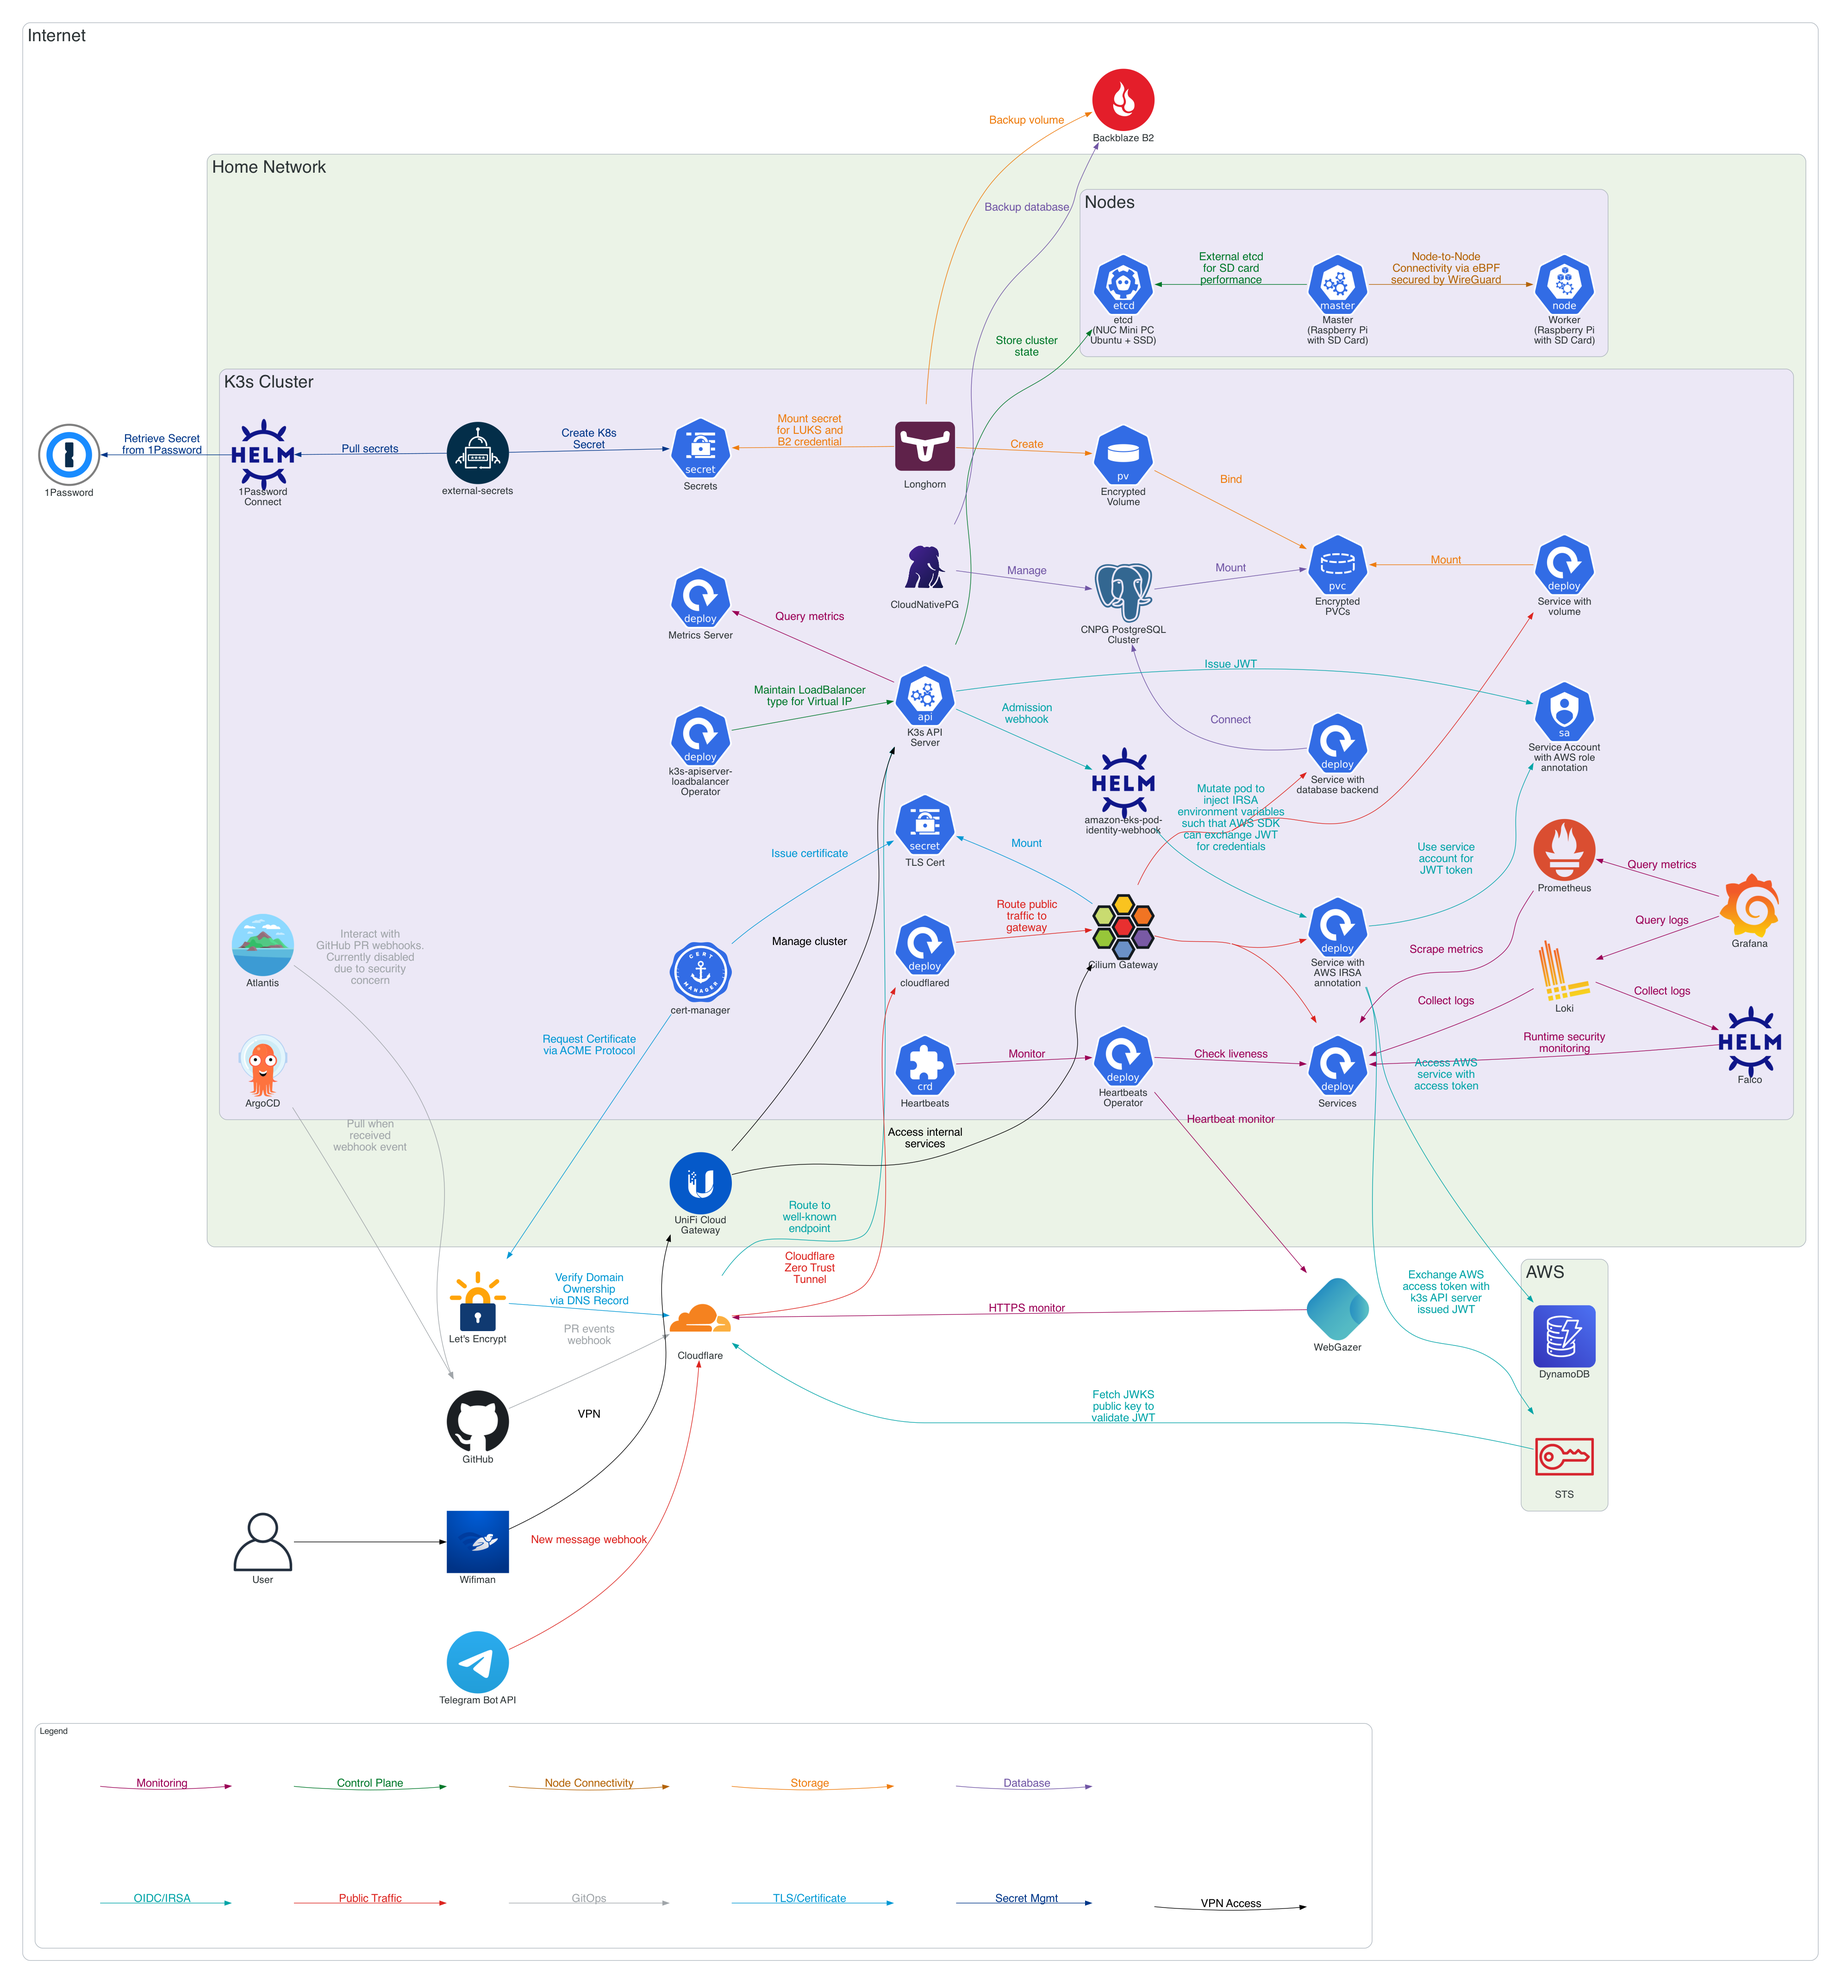
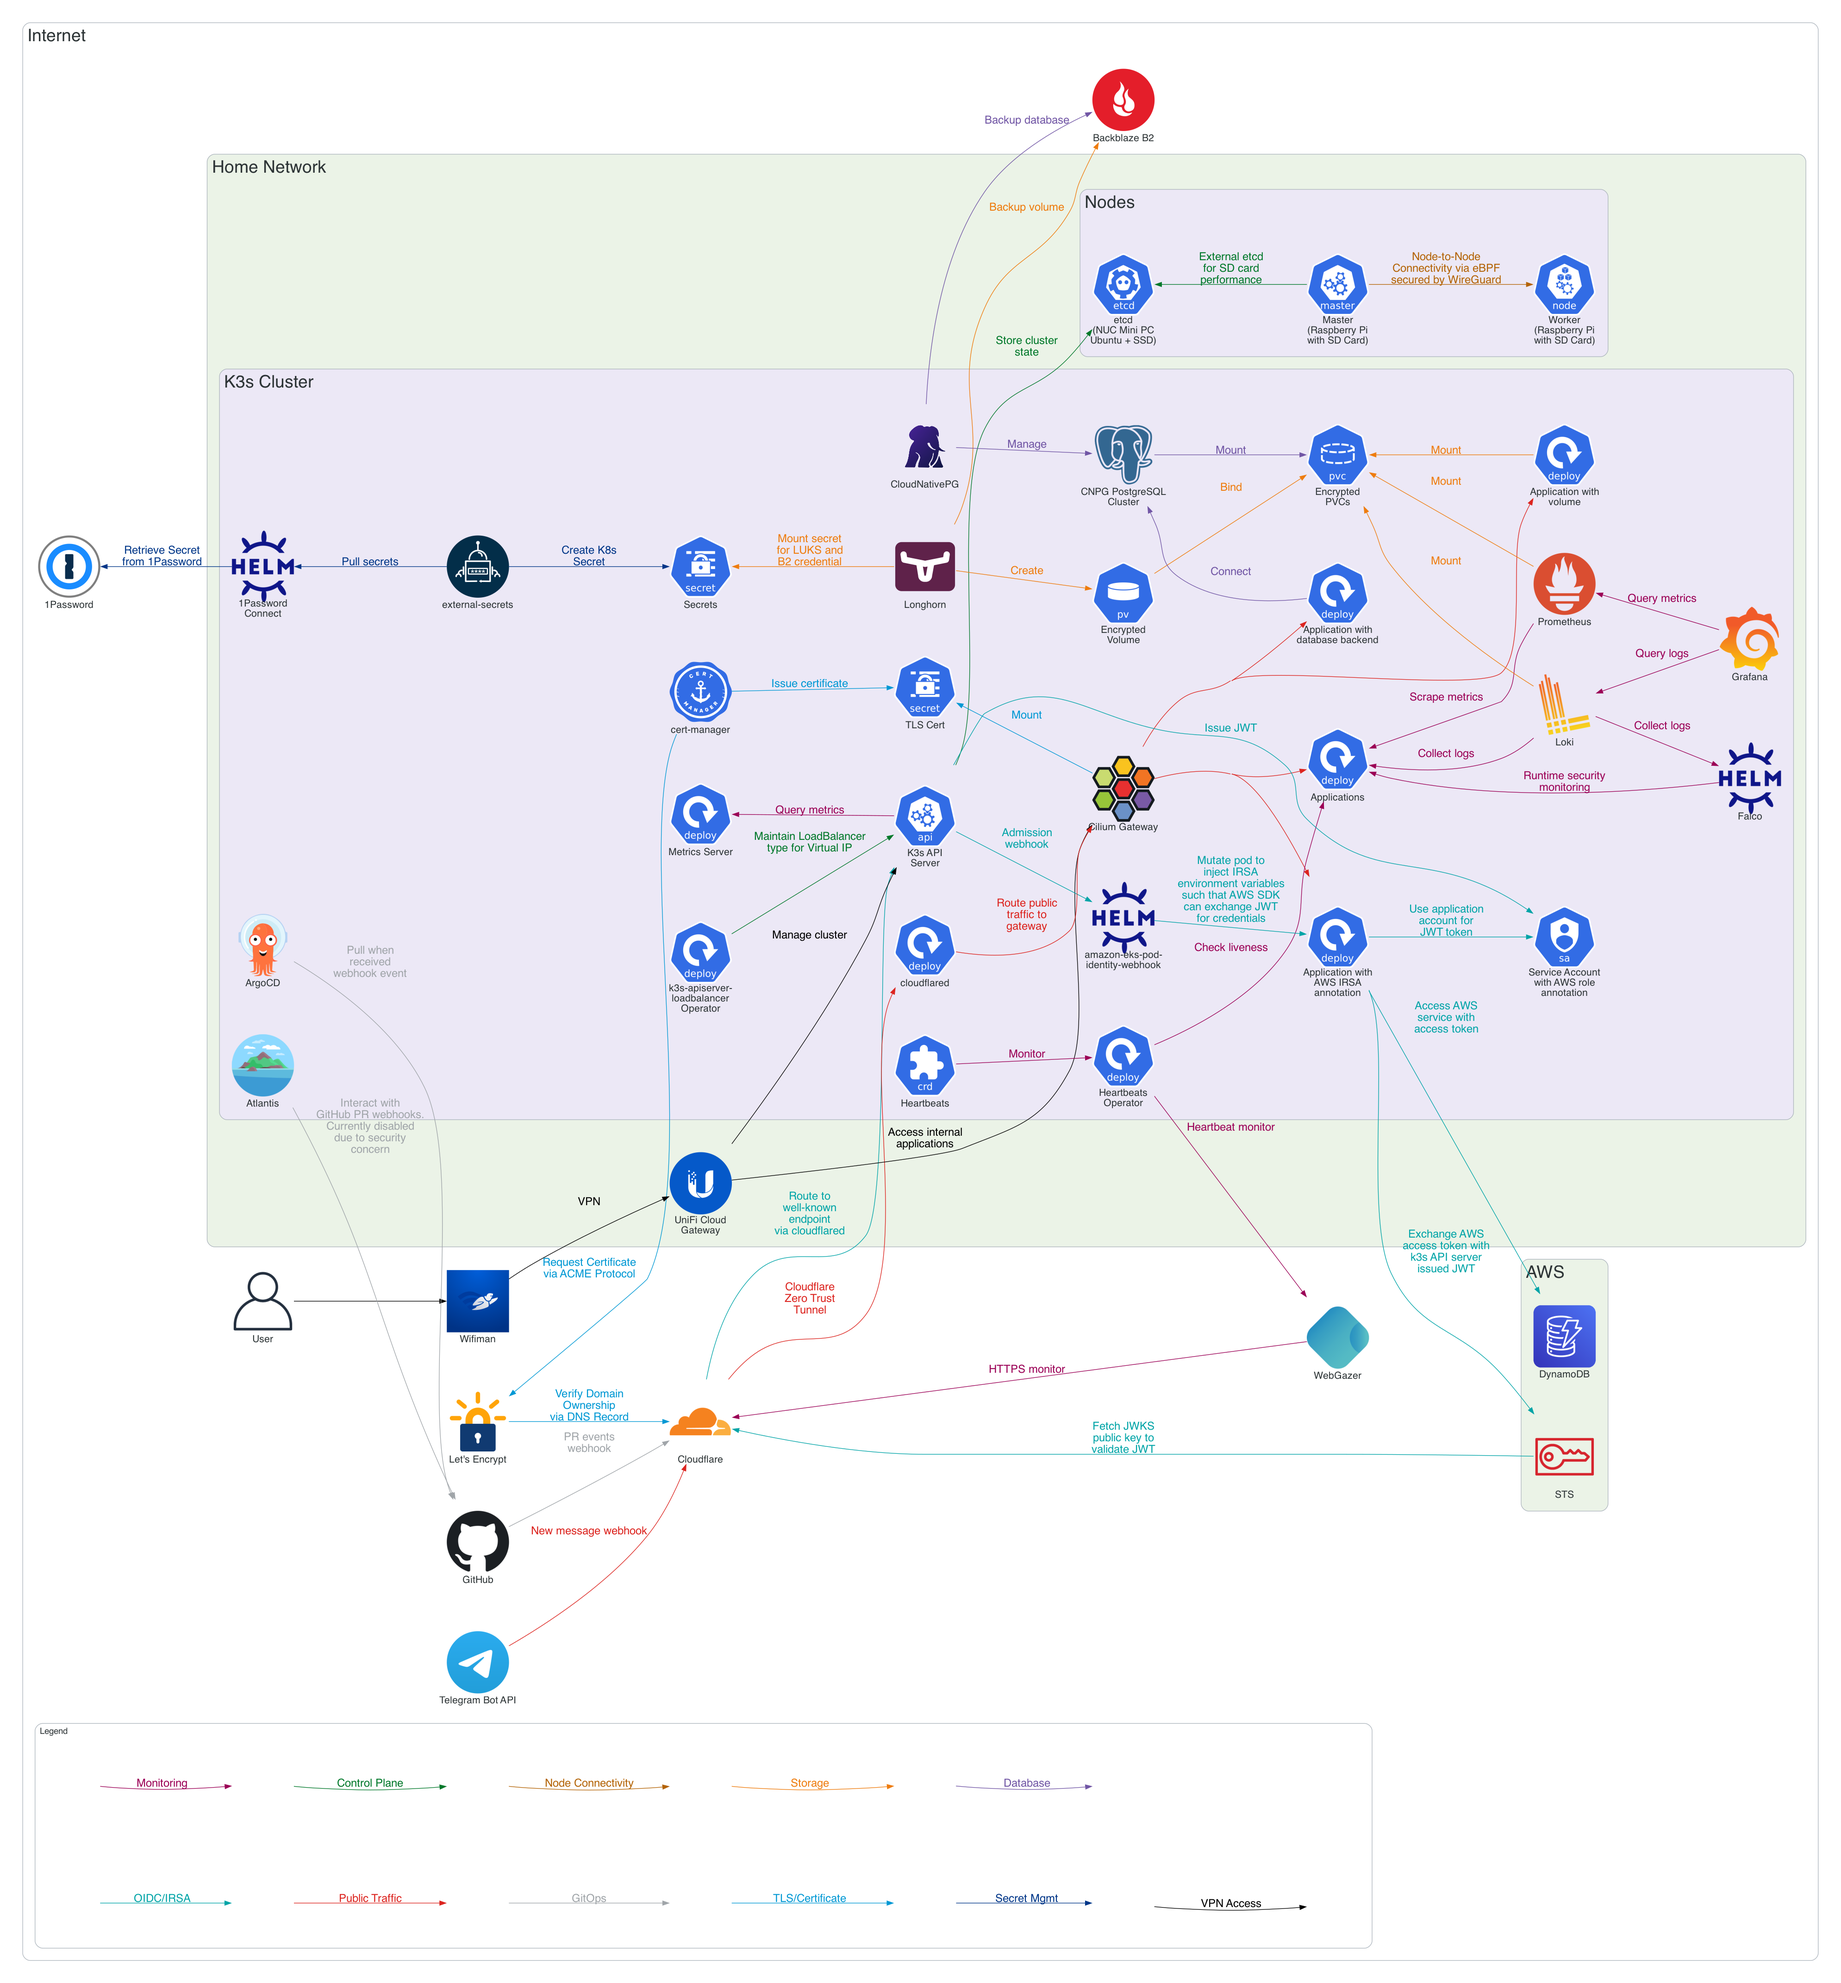
Update architecture diagram (#1922)

diff --git a/diagrams/otaru-architecture.py b/diagrams/otaru-architecture.py
@@ -164,10 +164,10 @@ with Diagram(
                 cloudflared = Deployment("cloudflared")
                 cilium = icon_node("Cilium Gateway", "cilium")
 
-                # Core services
+                # Core applications
                 argocd = Argocd("ArgoCD")
                 atlantis = icon_node("Atlantis", "atlantis")
-                services = Deployment("Services")
+                applications = Deployment("Applications")
                 cert_manager = icon_node("cert-manager", "cert-manager")
                 tls_cert = Secret("TLS Cert")
 
@@ -191,19 +191,21 @@ with Diagram(
                 longhorn = icon_node("Longhorn", "longhorn")
                 pv = PV("Encrypted\nVolume")
                 pvcs = PVC("Encrypted\nPVCs")
-                service_with_volume = Deployment("Service with\nvolume")
+                application_with_volume = Deployment("Application with\nvolume")
 
                 # Database
                 cnpg = icon_node("CloudNativePG", "cloudnative-pg")
                 cnpg_db_cluster = PostgreSQL("CNPG PostgreSQL\nCluster")
-                service_with_db = Deployment("Service with\ndatabase backend")
+                application_with_db = Deployment("Application with\ndatabase backend")
 
                 # OIDC/IRSA
                 pod_identity_webhook = Helm("amazon-eks-pod-\nidentity-webhook")
                 service_account = ServiceAccount(
                     "Service Account\nwith AWS role\nannotation"
                 )
-                service_with_irsa = Deployment("Service with\nAWS IRSA\nannotation")
+                application_with_irsa = Deployment(
+                    "Application with\nAWS IRSA\nannotation"
+                )
 
             with Cluster("Nodes", graph_attr=cluster_attr):
                 etcd = ETCD("etcd\n(NUC Mini PC\nUbuntu + SSD)")
@@ -260,7 +262,12 @@ with Diagram(
     (
         cilium
         >> edge(colour=COLOUR_PUBLIC)
-        >> [services, service_with_volume, service_with_db, service_with_irsa]
+        >> [
+            applications,
+            application_with_volume,
+            application_with_db,
+            application_with_irsa,
+        ]
     )
 
     # GitOps
@@ -305,19 +312,27 @@ with Diagram(
     # External User Access
     external_user >> edge(colour=COLOUR_VPN) >> wifiman
     wifiman >> edge("VPN", colour=COLOUR_VPN) >> unifi_gateway
-    unifi_gateway >> edge("Access internal\nservices", colour=COLOUR_VPN) >> cilium
+    unifi_gateway >> edge("Access internal\napplications", colour=COLOUR_VPN) >> cilium
     unifi_gateway >> edge("Manage cluster", colour=COLOUR_VPN) >> api_server
 
     # Monitoring
-    services << edge("Scrape metrics", colour=COLOUR_MONITORING) << prometheus
-    services << edge("Collect logs", colour=COLOUR_MONITORING) << loki
-    services << edge("Runtime security\nmonitoring", colour=COLOUR_MONITORING) << falco
+    applications << edge("Scrape metrics", colour=COLOUR_MONITORING) << prometheus
+    applications << edge("Collect logs", colour=COLOUR_MONITORING) << loki
+    (
+        applications
+        << edge("Runtime security\nmonitoring", colour=COLOUR_MONITORING)
+        << falco
+    )
     prometheus << edge("Query metrics", colour=COLOUR_MONITORING) << grafana
     loki << edge("Query logs", colour=COLOUR_MONITORING) << grafana
     loki >> edge("Collect logs", colour=COLOUR_MONITORING) >> falco
     metrics_server << edge("Query metrics", colour=COLOUR_MONITORING) << api_server
     heartbeat_crd >> edge("Monitor", colour=COLOUR_MONITORING) >> heartbeats_operator
-    heartbeats_operator >> edge("Check liveness", colour=COLOUR_MONITORING) >> services
+    (
+        heartbeats_operator
+        >> edge("Check liveness", colour=COLOUR_MONITORING)
+        >> applications
+    )
     (
         heartbeats_operator
         >> edge("Heartbeat monitor", colour=COLOUR_MONITORING)
@@ -358,7 +373,9 @@ with Diagram(
         >> edge("Bind", colour=COLOUR_STORAGE)
         >> pvcs
     )
-    pvcs << edge("Mount", colour=COLOUR_STORAGE) << service_with_volume
+    pvcs << edge("Mount", colour=COLOUR_STORAGE) << application_with_volume
+    pvcs << edge("Mount", colour=COLOUR_STORAGE) << prometheus
+    pvcs << edge("Mount", colour=COLOUR_STORAGE) << loki
     longhorn >> edge("Backup volume", colour=COLOUR_STORAGE) >> backblaze_b2
     (
         secrets
@@ -370,7 +387,7 @@ with Diagram(
     cnpg >> edge("Manage", colour=COLOUR_DATABASE) >> cnpg_db_cluster
     cnpg >> edge("Backup database", colour=COLOUR_DATABASE) >> backblaze_b2
     cnpg_db_cluster >> edge("Mount", colour=COLOUR_DATABASE) >> pvcs
-    cnpg_db_cluster << edge("Connect", colour=COLOUR_DATABASE) << service_with_db
+    cnpg_db_cluster << edge("Connect", colour=COLOUR_DATABASE) << application_with_db
 
     # OIDC/IRSA flow
     (
@@ -385,16 +402,16 @@ with Diagram(
             "such that AWS SDK\ncan exchange JWT\nfor credentials",
             colour=COLOUR_OIDC,
         )
-        >> service_with_irsa
+        >> application_with_irsa
     )
     (
-        service_with_irsa
-        >> edge("Use service\naccount for\nJWT token", colour=COLOUR_OIDC)
+        application_with_irsa
+        >> edge("Use application\naccount for\nJWT token", colour=COLOUR_OIDC)
         >> service_account
     )
     service_account << edge("Issue JWT", colour=COLOUR_OIDC) << api_server
     (
-        service_with_irsa
+        application_with_irsa
         >> edge(
             "Exchange AWS\naccess token with\nk3s API server\nissued JWT",
             colour=COLOUR_OIDC,
@@ -408,11 +425,11 @@ with Diagram(
     )
     (
         cloudflare
-        >> edge("Route to\nwell-known\nendpoint", colour=COLOUR_OIDC)
+        >> edge("Route to\nwell-known\nendpoint\nvia cloudflared", colour=COLOUR_OIDC)
         >> api_server
     )
     (
-        service_with_irsa
+        application_with_irsa
         >> edge("Access AWS\nservice with\naccess token", colour=COLOUR_OIDC)
         >> aws_service
     )
